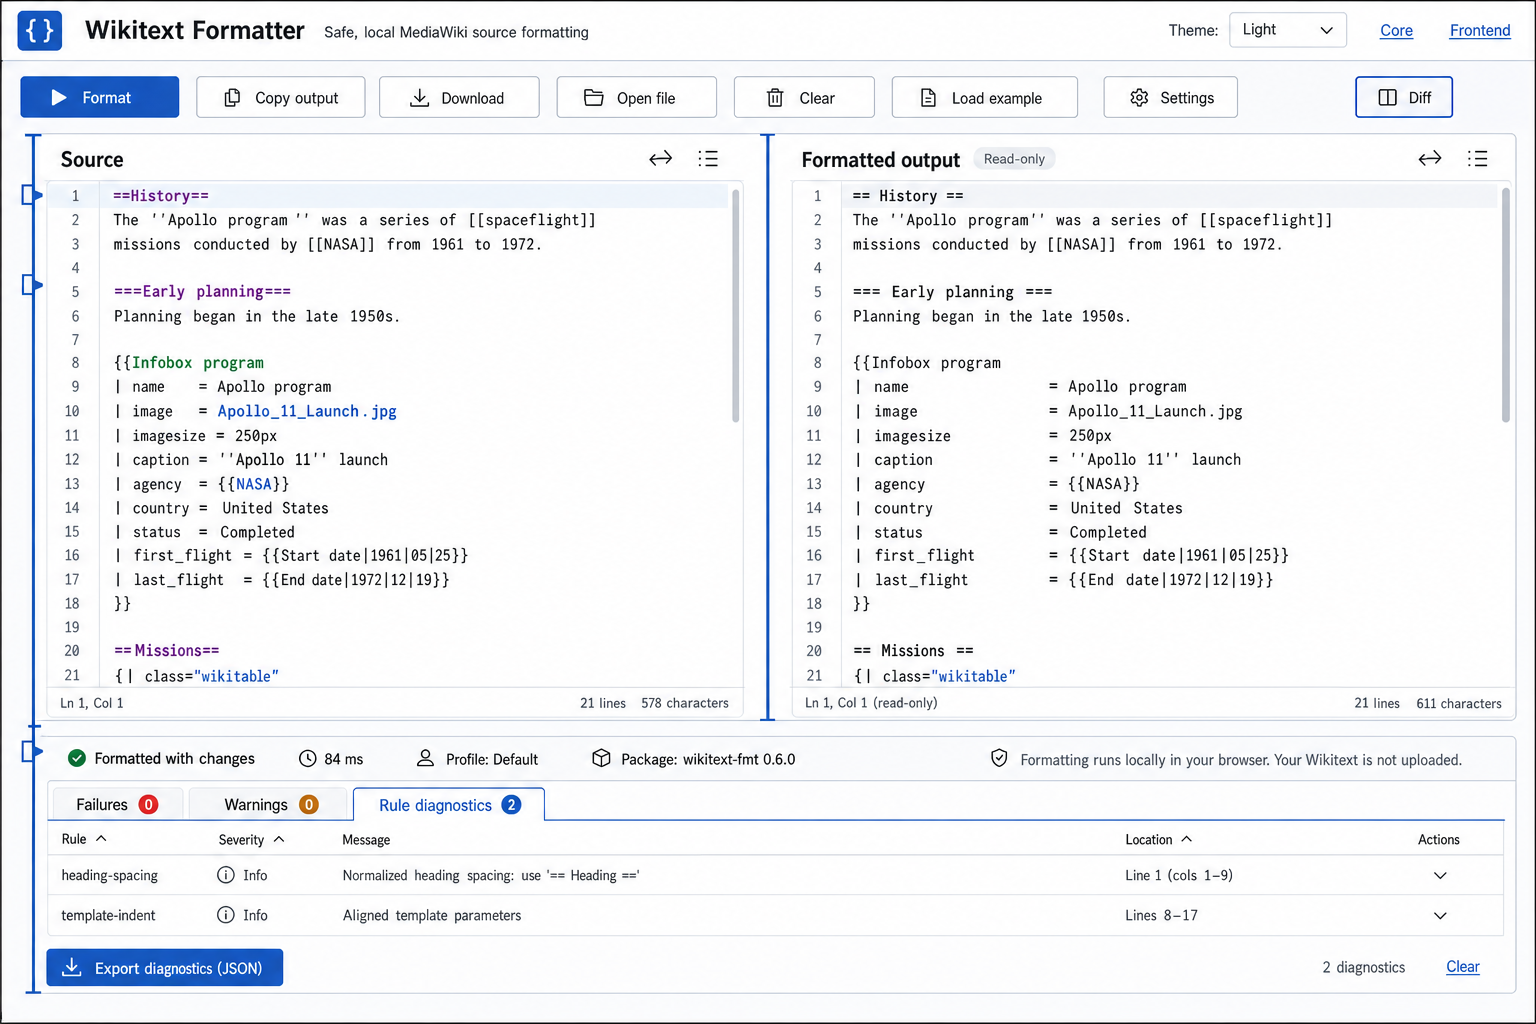
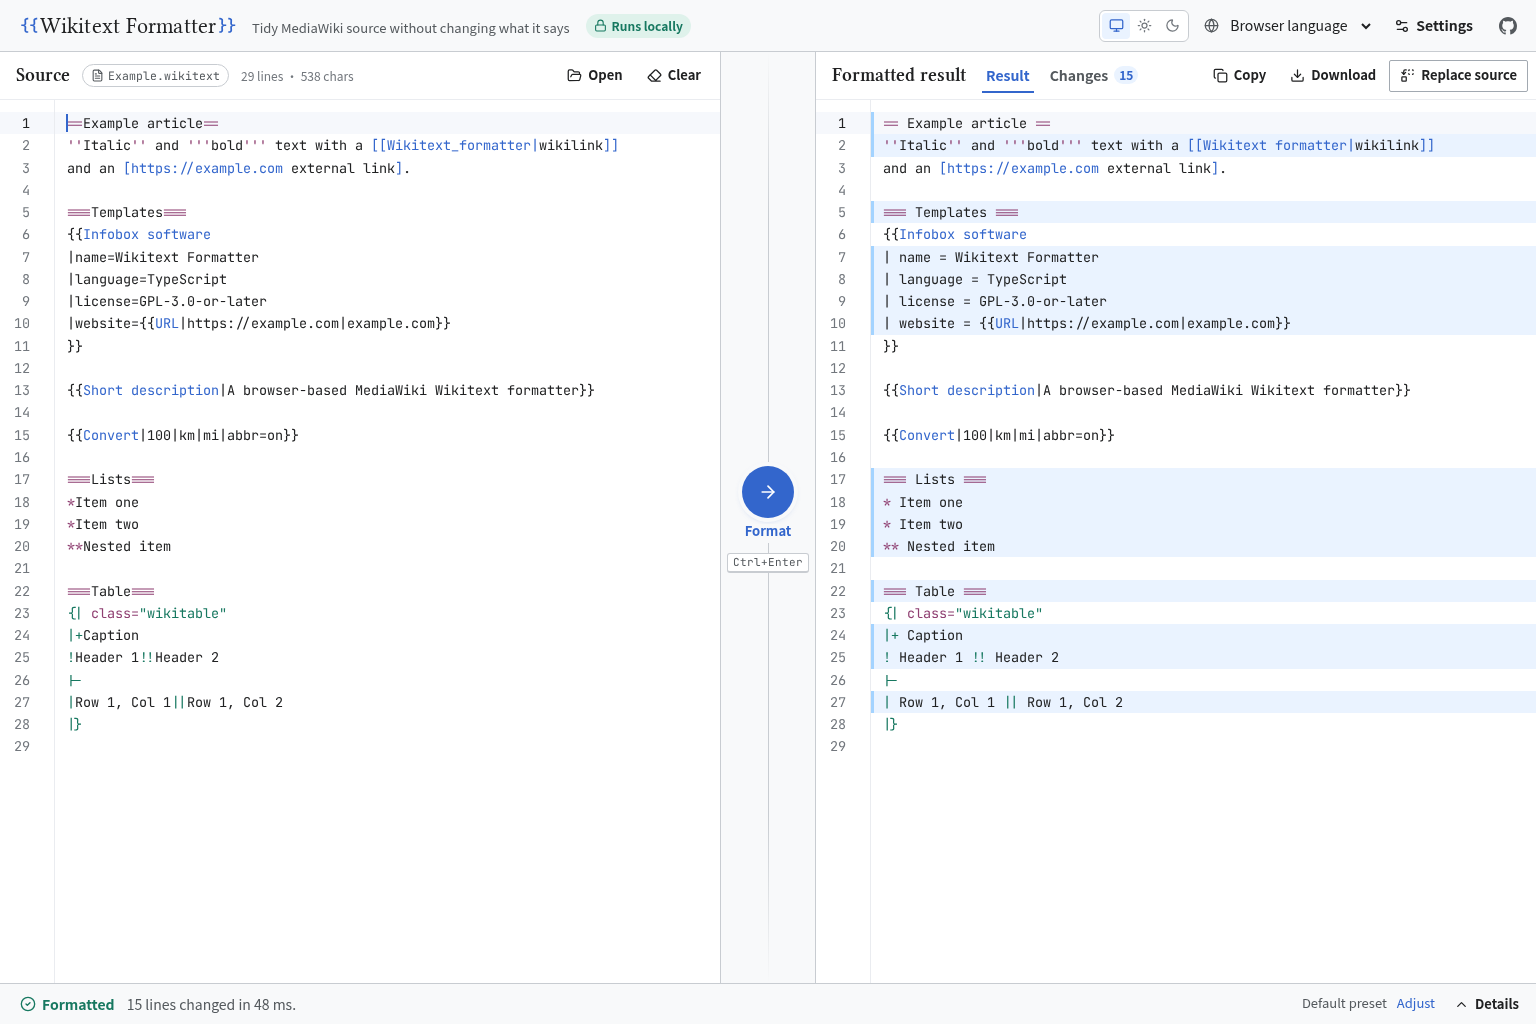
docs: describe the redesigned interface
Update the README, design reference, and screenshots, and record the
redesign under Unreleased.

diff --git a/README.md b/README.md
@@ -6,13 +6,14 @@ Formatting runs locally in your browser. Source text is not uploaded, logged, pl
 
 ## Features
 
-- CodeMirror 6 source and read-only output editors with line numbers, search, bracket matching, line wrapping, and MediaWiki Wikitext highlighting.
+- Two CodeMirror 6 editors, Source and Result, joined by a Format button with its Ctrl/Cmd+Enter shortcut. Both have line numbers, search, bracket matching, optional line wrapping, and MediaWiki Wikitext highlighting.
 - Explicit formatting through `wikitext-fmt/browser`; formatting never runs on each keystroke or on the main UI thread.
-- Changed, already-formatted, fail-closed, unexpected-error, and explicitly outdated-result states.
-- Exact structured failure fields, warnings, rule counters, and structural-equivalence diagnostics.
-- Side-by-side CodeMirror merge diff on wide screens and unified diff on narrow screens.
-- Copy, local file opening, browser-generated downloads, applying current output, clear, and example workflows.
-- Core formatter settings, system/light/dark themes, and responsive desktop/mobile layouts.
+- A one-sentence status for every outcome: formatted, no changes needed, left unchanged (fail-closed), formatter error, and out of date.
+- A report bar whose Details panel lists what changed, skipped rules, why a result was rejected, and the core's exact failure code, stage and message.
+- A Changes tab with a side-by-side merge view on wide screens and a unified view on narrow ones.
+- Paste, open or drop a file, try an example, copy, download, replace the source with the result (undoable), and clear with Undo.
+- A settings sheet with Default and Complete presets, per-rule controls, and the theme and line-wrapping choices.
+- System, light and dark themes; responsive layouts down to 320px and 200% zoom.
 - No backend, analytics, advertising, external parser CDN, service worker, or Wikitext preview rendering.
 
 This project is independent of the core formatter repository and consumes the exact published npm dependency `wikitext-fmt: "0.10.0"` as an ordinary external application. It is not affiliated with the Wikimedia Foundation.
@@ -56,7 +57,7 @@ wikitext-fmt/browser + bundled wikiparser-node runtime
 ```
 
 - `src/app/` composes the workspace and application state.
-- `src/components/` contains focused UI components, including lazy settings and diff surfaces.
+- `src/components/` contains the header, Source and Result panes, the format seam, the report bar, and the lazily loaded settings and diff surfaces.
 - `src/editor/` owns CodeMirror state, local Wikitext language support, and themes.
 - `src/formatter/` owns the typed Worker protocol, transport, cancellation, result classification, and the only formatter runtime import.
 - `src/settings/` validates, migrates, and persists theme and formatter settings.
@@ -64,7 +65,7 @@ wikitext-fmt/browser + bundled wikiparser-node runtime
 
 CodeMirror is the mutable authority for the source document; ordinary keystrokes update only editor-local statistics and do not copy the full document into React state. A completed formatting run retains one immutable submitted snapshot together with source and formatter-option revisions, the detailed result, and duration. Output, diagnostics, and Diff are derived from that one run. Editing source or formatting options keeps the prior output visible but marks it outdated; Diff continues comparing the submitted snapshot with its own output. A new result is discarded if either revision changes before the Worker responds. Theme, language, line wrapping, and panel visibility do not invalidate output.
 
-**Apply output** is available only for a current successful run. It replaces the CodeMirror source document in one undoable transaction, returns focus to the source editor, and clears the completed run so an earlier snapshot cannot be mistaken for a result for the newly applied source.
+**Replace source** is available only for a current successful run. It replaces the CodeMirror source document in one transaction with its own undo step, returns focus to the source editor, and clears the completed run so an earlier snapshot cannot be mistaken for a result for the newly applied source.
 
 Every format request receives a monotonically increasing ID and a Worker generation. The explicit `initialize` handshake produces exactly one generation-bound `ready` response after the formatter module has loaded. The client rejects superseded operations, settles pending work exactly once on restart, and ignores all messages and errors from old generations. Stop terminates the busy Worker and creates a new module Worker while CodeMirror source and settings remain intact. Module-load errors, invalid responses, and formatter exceptions are presented as unexpected errors; structured formatter failures remain distinct and retain the core package's exact code, stage, and message.
 
@@ -72,13 +73,15 @@ The main React bundle imports only public `wikitext-fmt/browser` types. `formatW
 
 ## Formatter settings
 
-The settings drawer exposes:
+The settings sheet exposes:
 
-- General: profile, line width, reliability level, and editor line wrapping.
-- Templates: template formatting, inline spacing, parameter layout, and line width.
-- Tables: table formatting, safe caption/opener/row-attribute spacing, and cell-separator style. Preserve mode preserves only inline cell separators.
-- Structure: headings, lists, section spacing, blank-line normalization, and HTML void-tag style.
-- Links and metadata: categories, file links, wikilinks, external links, references, redirects, behavior switches, interlanguage links, placements, and interlanguage prefixes.
+- Preset: Default or Complete.
+- Templates: template formatting, line width, one-line call spacing, and multi-line parameter layout.
+- Tables: table formatting and how cells joined with `||` or `!!` are laid out. "Keep as written" preserves only inline cell separators.
+- Page layout: headings, lists, space around headings, blank-line collapsing, and break-tag style.
+- Links and footer: wikilinks, external links, file links, references, redirects, categories, behavior switches, interlanguage links, their positions, and language prefixes.
+- Display: theme and line wrapping.
+- Advanced: rule reliability limit and the read-only parser configuration.
 
 The parser configuration is read-only: **MediaWiki bundled browser configuration**. The first release does not expose arbitrary `parserConfig`, siteinfo fetching, or complex localization alias editing. The formatter browser build supports only its bundled `mediawiki`/`default` configuration.
 
@@ -86,18 +89,20 @@ Only the language preference, theme preference, line-wrapping preference, and va
 
 ## Language support
 
-The UI is available in **English**, **简体中文** (Simplified Chinese), and **繁體中文** (Traditional Chinese). A language selector sits next to the theme selector in the page header.
+The UI is available in **English**, **简体中文** (Simplified Chinese), and **繁體中文** (Traditional Chinese). A language menu sits in the page header.
 
 | Setting | Behaviour |
 | --- | --- |
-| Follow browser | Detects the best match from `navigator.languages` (zh-CN/zh-SG/zh-MY → zh-Hans; zh-TW/zh-HK/zh-MO → zh-Hant; other → English). |
+| Browser language | Detects the best match from `navigator.languages` (zh-CN/zh-SG/zh-MY → zh-Hans; zh-TW/zh-HK/zh-MO → zh-Hant; other → English). |
 | English | Forces the English UI regardless of browser settings. |
 | 简体中文 | Forces Simplified Chinese. |
 | 繁體中文 | Forces Traditional Chinese. |
 
 The language preference is stored in `localStorage` (settings schema v3) so it is available before the formatter Worker finishes loading. Changing the language updates all React UI text, CodeMirror and diff accessible names, `document.documentElement.lang`, the page title, and meta tags immediately without rebuilding the Worker or clearing source text.
 
-**The formatter core returns diagnostics, failure codes, failure messages, and rule IDs in English.** The UI translates surrounding labels (e.g. "Stage:", "Rule", "Severity", table headers, button text) but preserves the core's exact original message text so it remains searchable and matches existing tests and documentation.
+**The formatter core returns diagnostics, failure codes, failure messages, and rule IDs in English.** The UI explains each failure code in plain language and translates the surrounding labels, but preserves the core's exact original message text under **Technical details** so it remains searchable.
+
+The Chinese catalogs contain no manual spaces between Han characters and Latin letters or digits. The page sets CSS `text-autospace: normal`, so browsers that support it add that spacing; code, shortcuts and the editors opt out. Browsers without `text-autospace` show the text unspaced, and no spacing is added next to symbols such as `||` or `<br>`.
 
 ## Testing and verification
 
@@ -114,7 +119,7 @@ pnpm check
 
 Vitest and React Testing Library cover settings validation/migration, storage privacy, Worker typing/lifecycle/stale responses, classification, structured failure rendering, helpers, statistics, and settings reset actions. Integration tests run the real installed `wikitext-fmt@0.10.0` browser package for headings, templates, table captions and attributes, split/preserve separators, nested and top-level list boundaries, redirects, references, interlanguage links, unchanged text, structured fail-closed output, CRLF, and idempotency.
 
-Playwright provides full Chromium coverage plus focused Firefox and WebKit smoke coverage. It covers iterative format → stale output → Diff → reformat → apply → undo flows, changed status, output inspection, setting changes, persistence without source retention, keyboard formatting, Stop/recreation, local file/download behavior, unique-marker network and storage privacy checks, axe accessibility scans, 200% zoom, and responsive layouts.
+Playwright provides full Chromium coverage plus focused Firefox and WebKit smoke coverage. It covers iterative format → out of date → Changes → reformat → replace source → undo flows, presets and setting persistence, file drop, clear with undo, settings focus handling, Stop/recreation, fail-closed details, language switching, unique-marker network and storage privacy checks, axe accessibility scans, 200% zoom, and responsive layouts.
 
 The bundle check rejects Node built-ins, `fast-glob`, CLI/config-discovery/VS Code code, core-workspace references, and deep package imports in the Worker graph. It reports raw and gzip baselines without arbitrary failure thresholds.
 

diff --git a/docs/design/README.md b/docs/design/README.md
@@ -1,20 +1,29 @@
 # Interface reference
 
-The accepted implementation references are `workspace-desktop.png` (1536×1024) and `workspace-mobile-settings.png` (390×844 mobile plus desktop settings state).
+The reference screenshots are `workspace-desktop.png` (1536×1024, the example after formatting) and `workspace-mobile-settings.png` (390×844, the settings sheet on a phone).
+
+## Layout
+
+- One header row holds the wordmark, tagline, a "Runs locally" badge, the theme switch, the language menu, Settings and the repository link. Below 900px the badge is hidden; below 760px the header theme switch is hidden and the theme is chosen under Settings → Display, where it is always available.
+- The workspace is two editors joined by the **format seam**: a column between Source and Result holding the Format button and its shortcut. While formatting, the button becomes Stop.
+- The Source pane header has the file name, statistics, Open and Clear. An empty source shows a short card with Paste, Open a file and Try an example. A file can also be dropped anywhere on the pane.
+- The Result pane has Result and Changes tabs (Changes shows the changed-line count), plus Copy, Download and Replace source. An out-of-date result is shown desaturated and labelled "Out of date".
+- The report bar along the bottom gives the status in a single sentence, the active preset with an Adjust link, and a Details toggle. Details opens what changed, warnings, failure reasons, technical details and version information.
+- Settings is a modal sheet (Radix Dialog) with Preset, Templates, Tables, Page layout, Links and footer, Display and Advanced sections. Changes apply the next time you format.
+- Below 760px one pane shows at a time behind a Source/Result switch, and the seam becomes a full-width Format button above the report bar.
+- Notifications (copy, file opened, clear with Undo) use sonner toasts.
 
 ## Design system
 
-- Canvas: `#f6f7f9`; surface: `#ffffff`; text: `#171a1f`; border: `#d8dde6`.
-- Primary accent: `#2a5db0`; success: `#19724b`; warning: `#9a5b13`; failure: `#b42318`.
-- UI uses the system sans-serif stack; source uses the system monospace stack.
-- Borders are 1 px, corners are 4 px, and shadow is reserved for the settings drawer.
-- The cobalt syntax spine links editor panes, status, and diagnostics as the signature visual element.
-- App UI is open bands and rails rather than nested cards. There are no gradients, glass surfaces, or decorative illustrations.
+- Palette (light): paper `#ffffff`, chrome `#f8f9fa`, ink `#202122`, rules `#c8ccd1`. Progressive blue `#36c` for primary actions and links, success `#177860`, warning `#8a5300`, destructive `#bf3c2c`. These follow the MediaWiki Codex palette, so the tool feels at home next to a wiki.
+- Dark theme: paper `#101418`, ink `#eaecf0`, progressive `#88a3e8`. It switches without transitions so no element is caught at mid-fade contrast.
+- Type: Libertinus Serif (the Linux Libertine successor used for Wikipedia headings) for the wordmark and pane titles; the system sans-serif stack for interface text; JetBrains Mono for the editors, shortcuts and file names.
+- Signature: the wordmark is wrapped in template braces, `{{Wikitext Formatter}}`, and the seam carries the Format button between the two editors.
+- Borders are 1px, corners 2px (6px for the sheet and cards). Shadows are reserved for the settings sheet, toasts, the Format button and switch thumbs.
+- Changed output lines get a soft blue background and a 3px blue left rule.
 
-## Locked first-viewport copy
+## Writing
 
-- Wikitext Formatter
-- Safe, local MediaWiki source formatting
-- Format, Copy output, Download, Open file, Clear, Load example, Settings, Diff
-- Source, Formatted output, Diagnostics
-- Formatting runs locally in your browser. Your Wikitext is not uploaded.
+- Sentence case, plain verbs, and the same name for an action throughout: the button "Replace source" produces the status "Source replaced"; "Clear" produces "Source cleared".
+- Failure copy says what happened and what to do next. The core formatter's original message stays visible under Technical details so it can be searched.
+- Chinese catalogs contain no manual spaces between Han characters and Latin letters or digits. The page sets `text-autospace: normal` so supporting browsers add that spacing; code, shortcuts and editors opt out with `no-autospace`.

diff --git a/CHANGELOG.md b/CHANGELOG.md
@@ -2,6 +2,38 @@
 
 ## Unreleased
 
+### Changed
+
+- Redesign the workspace: Source and Result editors joined by a Format
+  button, Result and Changes tabs, and a report bar with a one-sentence
+  status, the active preset, and expandable details. On narrow screens one
+  pane shows at a time.
+- Rewrite all interface copy in English, Simplified Chinese, and Traditional
+  Chinese. Failure codes are now explained in plain language, with the core's
+  exact message kept under Technical details.
+- Add an empty-source card with Paste, Open a file, and Try an example, and
+  accept files dropped onto the source.
+- Move settings into a modal sheet with Default and Complete presets, inline
+  previews of layout choices, and the theme choice.
+- Replace the inline notices with toasts; clearing the source can be undone
+  from the toast.
+- Restyle with a MediaWiki Codex–based palette, Libertinus Serif headings,
+  and JetBrains Mono editors.
+- Remove manual spaces between Han and Latin text from the Chinese catalogs;
+  supporting browsers add the spacing through CSS `text-autospace`.
+- Add `radix-ui`, `sonner`, `@fontsource/libertinus-serif`, and
+  `@fontsource-variable/jetbrains-mono`.
+
+### Fixed
+
+- Undoing **Replace source** restores the earlier source even when it follows
+  typing within the editor's undo-grouping window.
+- Return focus to the control that opened Settings when the sheet closes.
+- Make the scrollable editor regions keyboard-focusable.
+- Deduplicate `@lezer/common` and `@lezer/highlight` so syntax highlighting
+  cannot crash on mismatched copies.
+- Stop the header from overflowing on narrow screens and at 200% zoom.
+
 ## 0.4.0 — 2026-10-22
 
 ### Added
